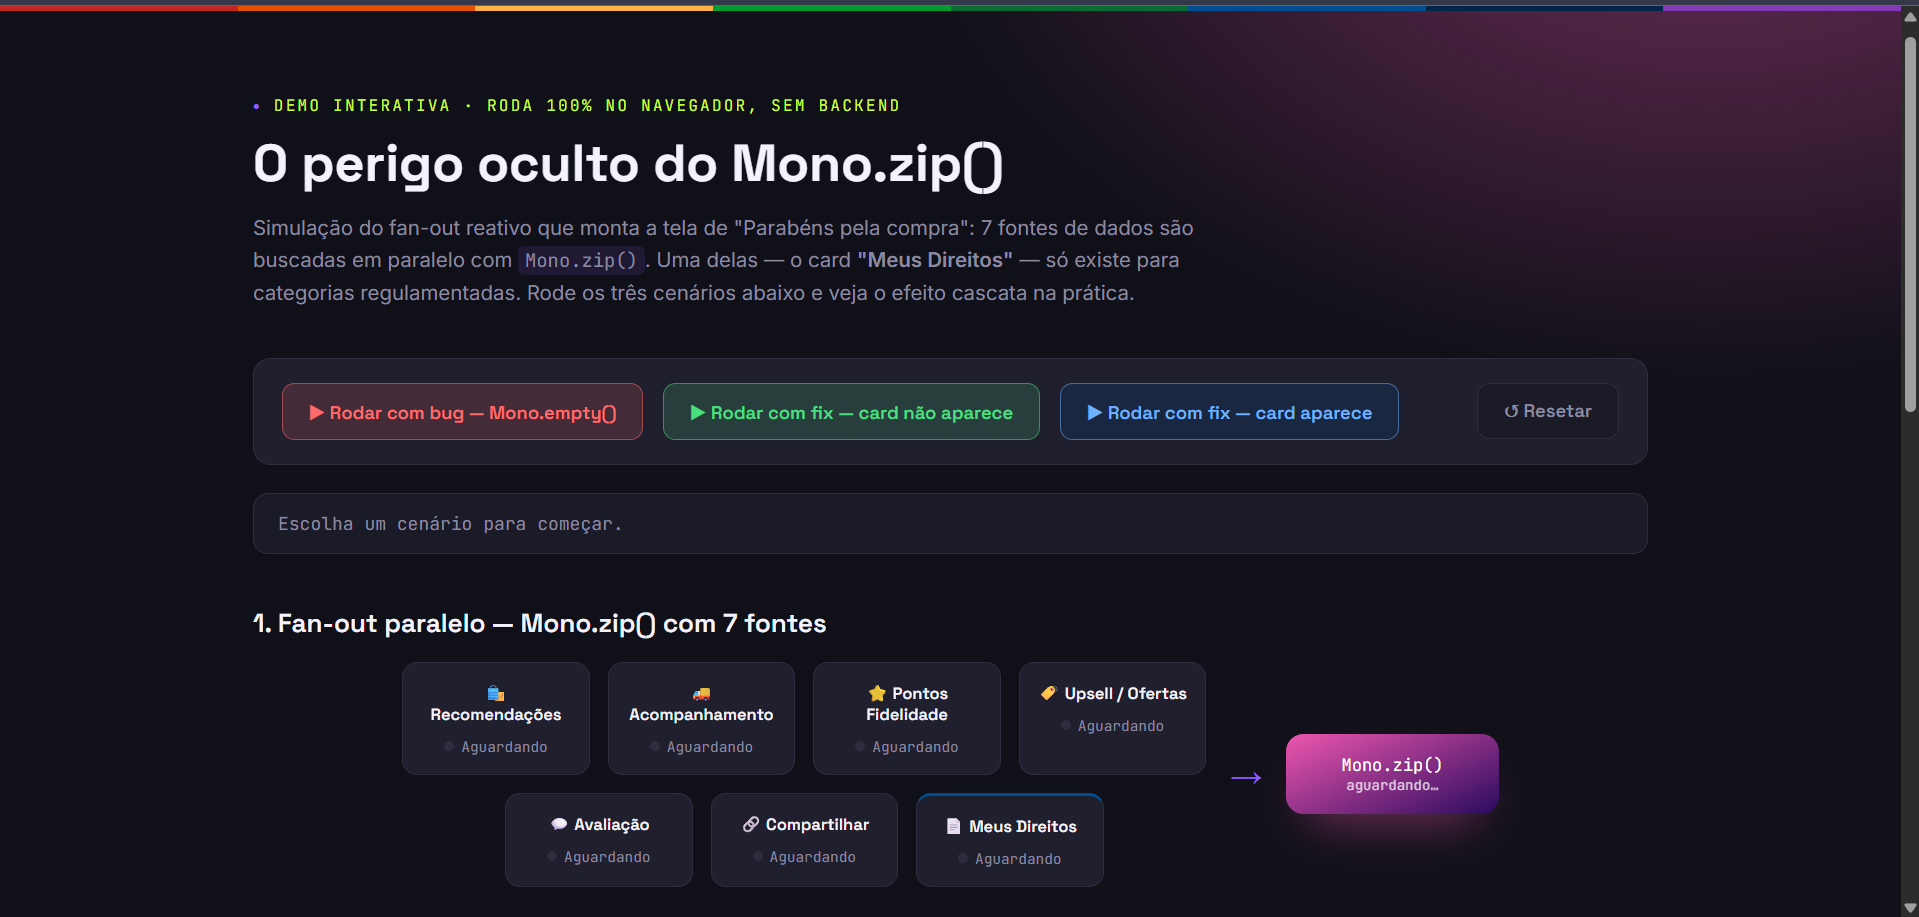
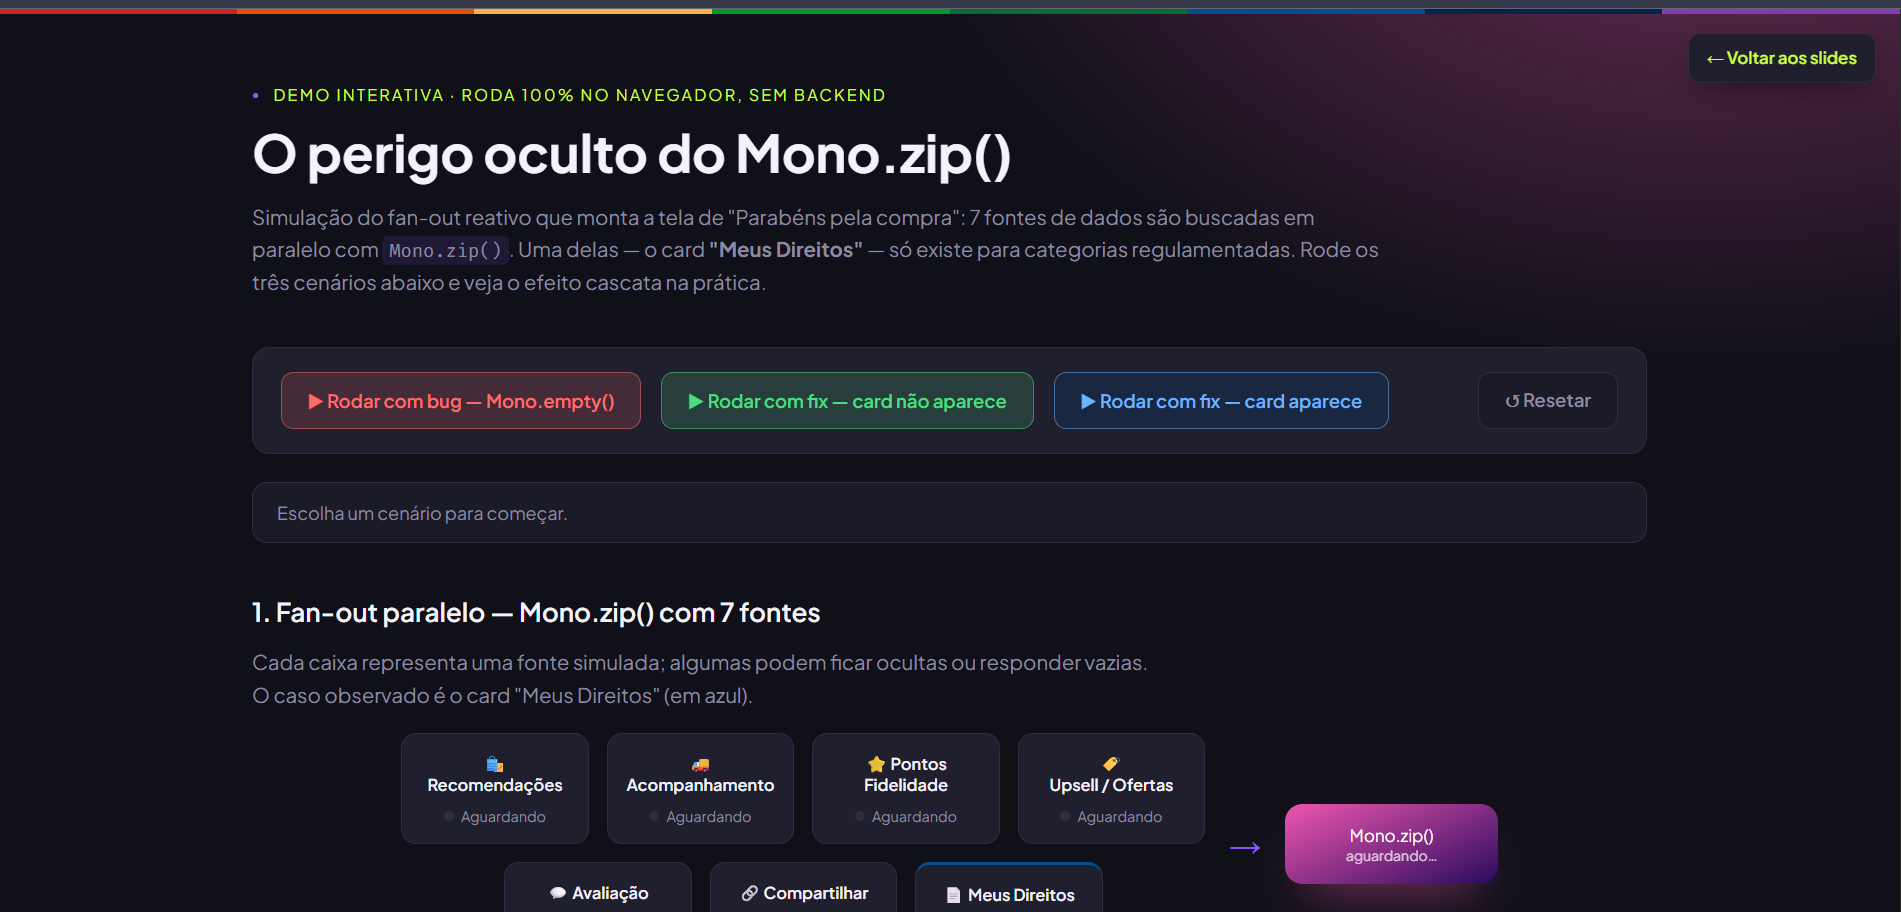
update screenshots and links

diff --git a/README.MD b/README.MD
@@ -13,13 +13,15 @@ Um QR code para este repositório também está disponível no último slide da 
 
 ## 📸 Preview
 
-| Slides |
-|---|
-| ![Slide de abertura](screenshots/slides-preview.png) |
+| Slides                                                                                                                          |
+| ------------------------------------------------------------------------------------------------------------------------------- |
+| [![Slide de abertura](screenshots/slides-preview.png)](https://eu-larissasouza.github.io/tdc2026-uma-feature-4-microsservicos/) |
+| 👉 [Clique para abrir os slides](https://eu-larissasouza.github.io/tdc2026-uma-feature-4-microsservicos/)                       |
 
-| Demo interativa |
-|---|
-| ![Demo do Mono.zip()](screenshots/demo-preview.png) |
+| Demo interativa                                                                                                                                  |
+| ------------------------------------------------------------------------------------------------------------------------------------------------ |
+| [![Demo do Mono.zip()](screenshots/demo-preview.png)](https://eu-larissasouza.github.io/tdc2026-uma-feature-4-microsservicos/demo-mono-zip.html) |
+| 👉 [Clique para abrir a demo do Mono.zip()](https://eu-larissasouza.github.io/tdc2026-uma-feature-4-microsservicos/demo-mono-zip.html)           |
 
 ## 📁 Estrutura do repositório
 
